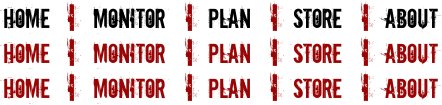
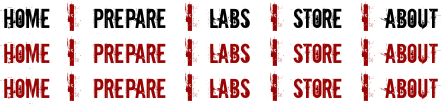
renamed links, updated website text, adding labs section

diff --git a/config/routes.rb b/config/routes.rb
@@ -31,7 +31,7 @@ ActionController::Routing::Routes.draw do |map|
   map.admin '/zs-admin', :controller => 'admin', :action => 'index'
   
   # plan page
-  map.plan '/plan', :controller => 'locations', :action => 'index'
+  map.plan '/prepare', :controller => 'locations', :action => 'index'
   
   # monitor page
   map.monitor '/monitor', :controller => 'twitter_trends', :action => 'index'
